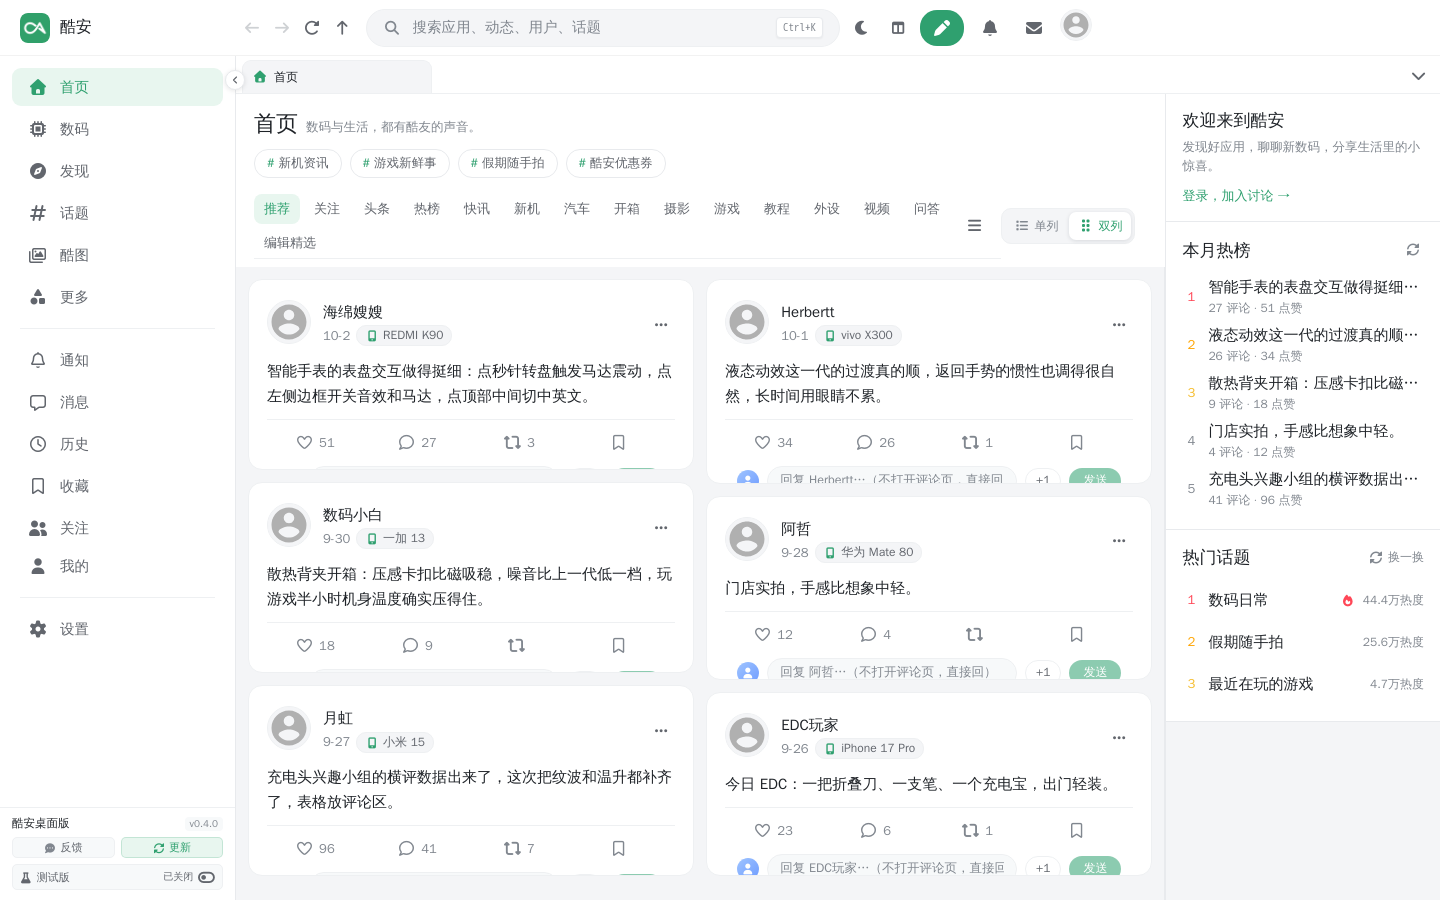
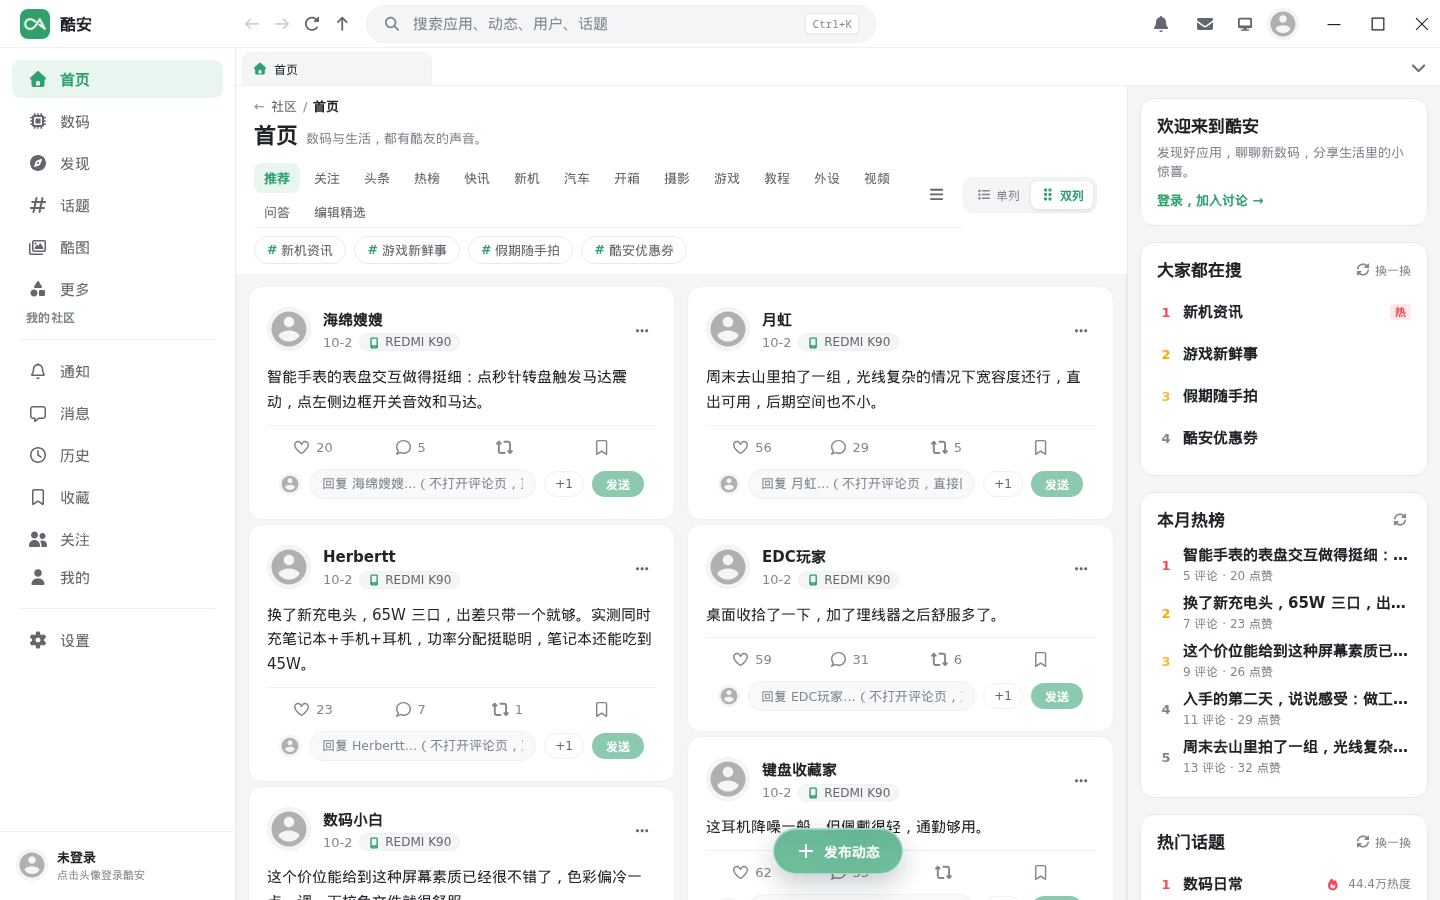
README 重写：按 v0.5.2 实际界面重写顶栏/侧栏手柄/悬浮发布钮说明，并重截首页与设置页渲染图

diff --git a/README.md b/README.md
@@ -18,9 +18,11 @@
 
 界面是**三栏结构**——左侧导航 / 中间信息流 / 右侧栏——并按 `prototype/home.html` 的设计稿重排了首页：
 
+- 顶栏**左上角是酷安 logo 与名称**，**右上角**依次是通知、私信、主题切换、账号入口（头像，悬停弹出资料浮层）与窗口按钮
 - 首页顶部有「首页」大标题 + 副标题 + 热词胶囊，下面是一整块**换行的胶囊栏目行**（推荐 / 关注 / 头条 / 热榜 / 快讯 …）
 - 信息流是**白底圆角卡片**；切到「双列」后是**两个各自独立滚动的瀑布流**，滚一列不影响另一列
-- 左侧导航可**收起为图标栏**；右侧栏可由顶栏开关**整块隐藏**
+- 左右栏用**分界线上的悬停手柄**收起 / 隐藏：手柄平时隐形，鼠标移近才浮现，点一下即收放；栏隐藏后手柄常显，随时能点回来
+- 发布入口是内容区底部的**悬浮毛玻璃按钮**，按住可以拖到任意位置，松手后记住位置（下次启动还在那儿）
 
 全站的配色、圆角、描边、标题层级、选中态**收敛在同一套令牌与统一皮肤里**，不是每个页面各写一份。
 
@@ -39,16 +41,17 @@
 
 *以上两张截图都是**客户端前端的实际渲染**（本地快照，未登录状态），不是设计稿。首页那张是**双列**形态——也就是两个各自独立滚动的瀑布流；单列 / 双列可在信息流右上角切换。*
 
-*设计稿本身的可交互版本在 `prototype/home.html`，其渲染图在 `docs/preview/home.png`。*
-
 | | |
 |---|---|
-| **左侧导航** | 首页 / 热榜 / 话题广场 / 数码 / 应用与游戏 / 二手 / 好物与清单 / 应用下载 / 手机协同，以及「我的社区」分组；可收起为图标栏 |
+| **顶栏** | 左：酷安 logo + 「酷安」；中：前进 / 后退 / 刷新 / 回到顶部 + 搜索框（Ctrl+K）；右：通知、私信、主题切换、账号入口（头像，悬停出资料浮层）、窗口按钮 |
+| **左侧导航** | 首页 / 数码 / 发现 / 话题 / 酷图 / 更多，以及「我的社区」分组；底部是个人中心卡片；可收起为图标栏 |
 | **中间** | 首页大标题 + 热词胶囊 + 胶囊栏目行；信息流单列 / 双列可切，双列时两列各自独立滚动 |
-| **右侧栏** | 欢迎卡、本月热榜、我关注的话题、热门话题；可整块隐藏 |
-| **顶栏** | 前进 / 后退 / 刷新、搜索、发布、通知、消息、深浅色切换、右栏显隐开关、窗口按钮 |
+| **右侧栏** | 欢迎卡、大家都在搜、本月热榜、热门话题、我关注的话题；可整块隐藏 |
+| **发布入口** | 内容区底部居中的悬浮毛玻璃钮（「+ 发布动态」），按住可拖动，位置会记住 |
 
-`prototype/home.html` 是首页的**可交互设计稿**：用浏览器打开后，点顶栏那两个开关可以自己试左右栏显隐；也支持 `?state=hide-left,hide-right` 预设状态。
+左右栏怎么收放：把鼠标移到**左栏右缘 / 右栏左缘的分界线**上，会浮现一个竖条小胶囊手柄，点它收起或还原。右栏只在首页存在，窗口宽度小于 1200px 时右栏本身不显示。
+
+`prototype/home.html` 是首页的**可交互设计稿**（稿子里的左右栏开关是稿子自带的控件，与客户端的悬停手柄不是同一套）：用浏览器打开后可以自己试左右栏显隐，也支持 `?state=hide-left,hide-right` 预设状态；设计稿的静态渲染图在 `docs/preview/home.png`。
 
 ## 自用增强
 
@@ -59,19 +62,21 @@
 | **快捷回复** | 每条动态下方一个输入框 + 「发送」按钮，**不用打开评论页**就能直接回复（旁边另有 `+1` 快捷按钮） | v0.2.0 |
 | **我关注的话题** | 首页右栏集中展示已关注话题（服务端返回未读数时才显示角标），底部可进入管理 | v0.2.0 |
 | **双列各滚各的** | 信息流切「双列」后是两个独立滚动的瀑布流，任一列触底才续页 | v0.2.0 |
-| **左右栏显隐** | 左侧收起为图标栏；右侧由顶栏开关整块隐藏 | v0.2.0 |
+| **左右栏收放** | 左栏收起为图标栏、右栏整块隐藏；入口是侧栏分界线上的悬停手柄 | v0.2.0（v0.5.2 改为手柄） |
 | **首页照稿重排** | 大标题 + 热词胶囊 + 整页胶囊栏目行 + 白底圆角卡片 | v0.3.0 |
 | **全站统一皮肤** | 品牌绿 / 圆角 / 描边 / 标题层级 / 选中态收敛成一套 | v0.4.0 |
+| **界面稿 v3 / v4 版式** | 顶栏定稿（左 logo、右动作区 + 账号入口）、左下角个人中心卡、底部悬浮发布钮、右栏手柄 | v0.5.0 – v0.5.2 |
+| **发布钮可拖动** | 悬浮发布钮按住可拖到任意位置，松手记住（存在设置的 `publishFabPosition` 里） | v0.5.2 |
 
-开关位置：`设置 → 外观` 下的「快捷回复」「我关注的话题」；右栏开关在首页顶栏。
+开关位置：`设置 → 外观` 下的「快捷回复」「我关注的话题」；左右栏收放在侧栏分界线上的手柄。
 
 ## 当前状态
 
 | 已经打通 | 还在做 |
 |---|---|
-| 工程底座（Tauri 2 + Vue 3 + Rust），只保留 Windows 目标 | 各页面**各自的版式**仍是上游结构（本轮统一的是皮肤层，不是逐页重画） |
+| 工程底座（Tauri 2 + Vue 3 + Rust），只保留 Windows 目标 | 各页面**各自的版式**仍是上游结构（统一的是皮肤层，不是逐页重画） |
 | 单文件 exe 打包（不出安装器） | Windows 10 上的窗口圆角表现待实机验证 |
-| 推送 `v*` tag 自动构建并发布 Release | 快捷回复、我关注的话题、新首页的真机验收 |
+| 推送 `v*` tag 自动构建并发布 Release | 界面稿 v3 / v4 那批改动（顶栏、侧栏手柄、悬浮发布钮、快捷回复头像）的真机验收 |
 | 构建后**启动自检**：在构建机上真跑一次 exe，跑不起来就拒绝发版 | |
 | 首页照稿重排 + 全站统一皮肤 + 上面那几项增强 | |
 
@@ -118,6 +123,8 @@ docs/preview/            README 使用的实际渲染截图
 **登录态 / 设置存在哪？** `%APPDATA%\com.coolapk.windows`。
 
 **换了版本要重新登录？** 应用数据目录跟随应用标识走；标识一旦变更就是一份全新目录，旧登录态不会自动继承。
+
+**悬浮发布按钮拖歪了想复位？** 它的位置存在设置里的 `publishFabPosition`；把设置里的这一项清掉（或删掉设置文件）就会回到默认的底部居中。
 
 ## 许可证
 
